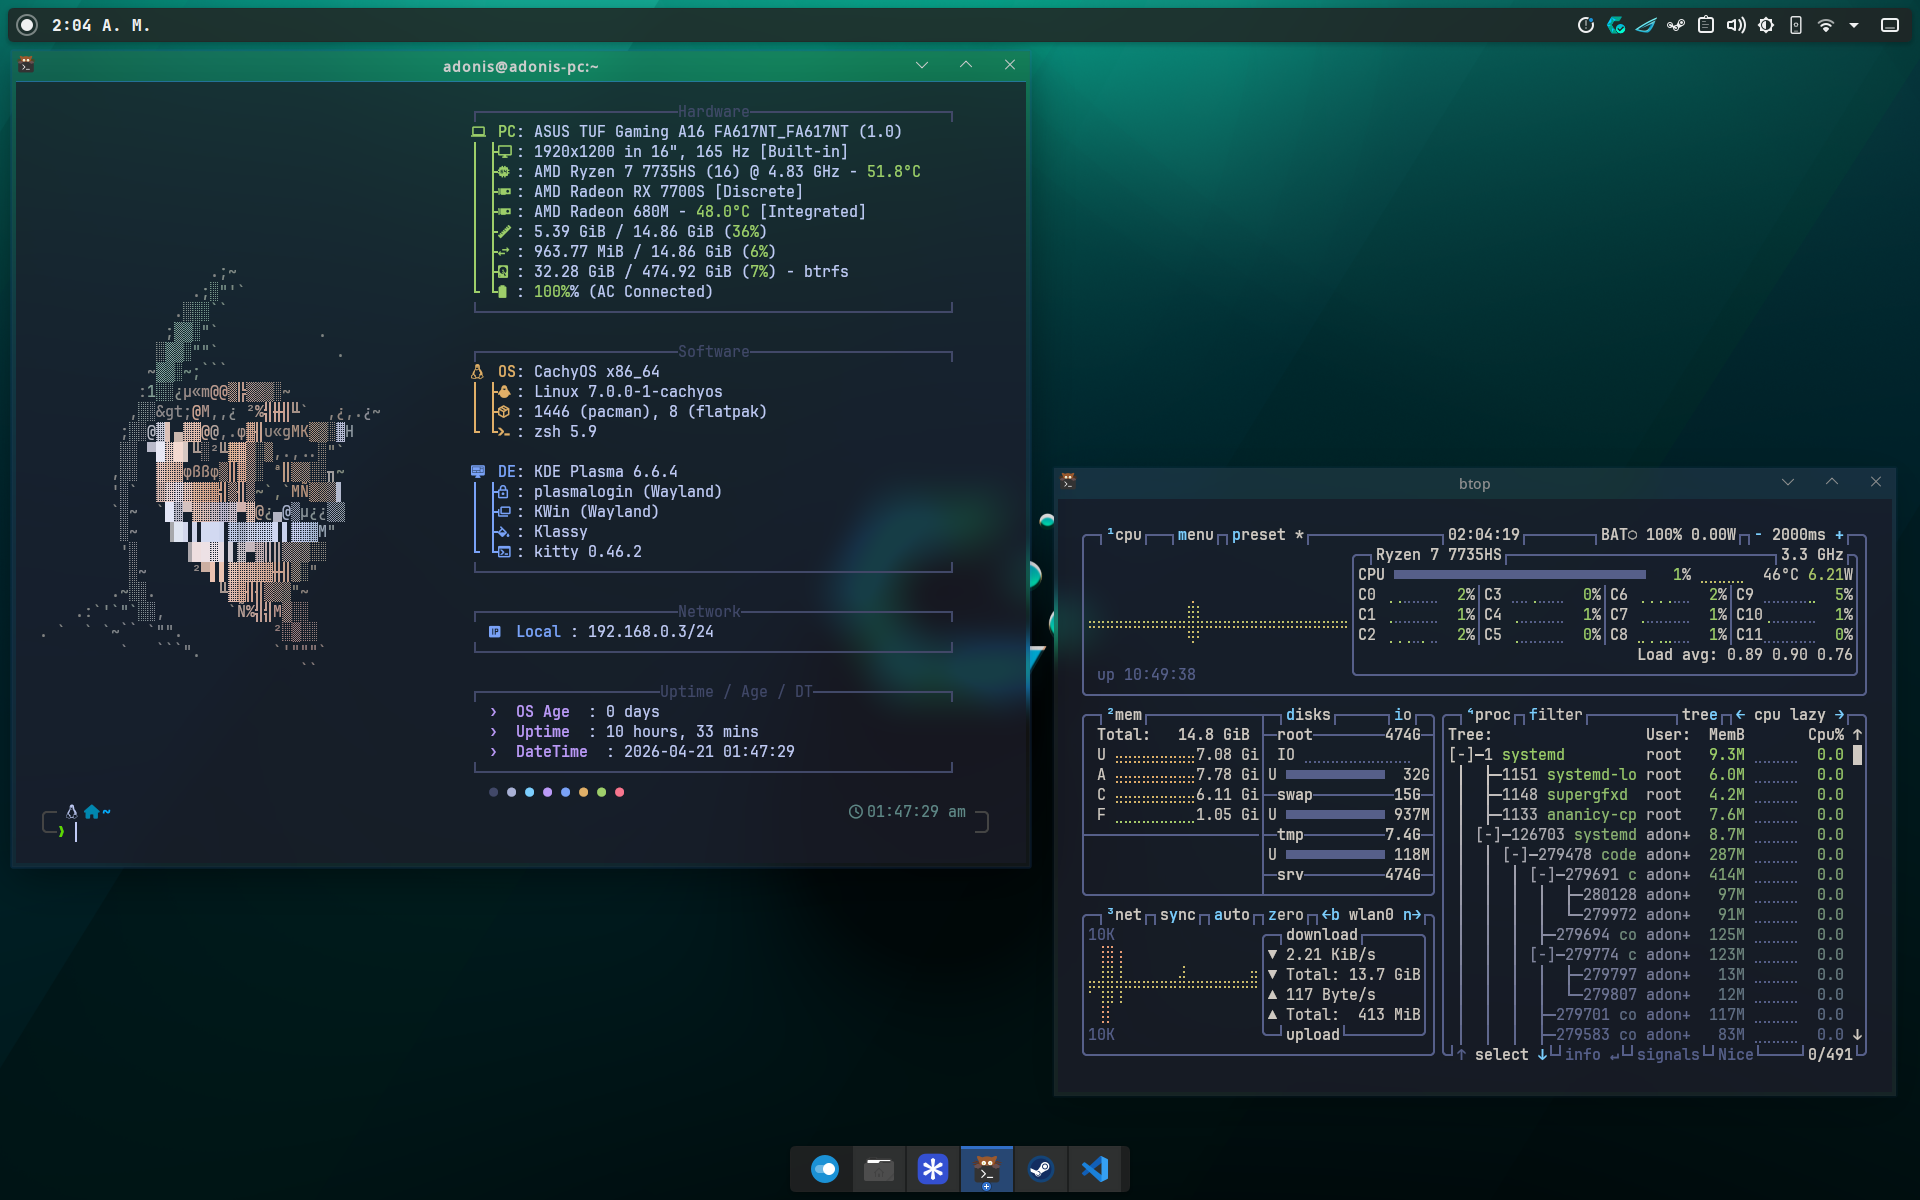
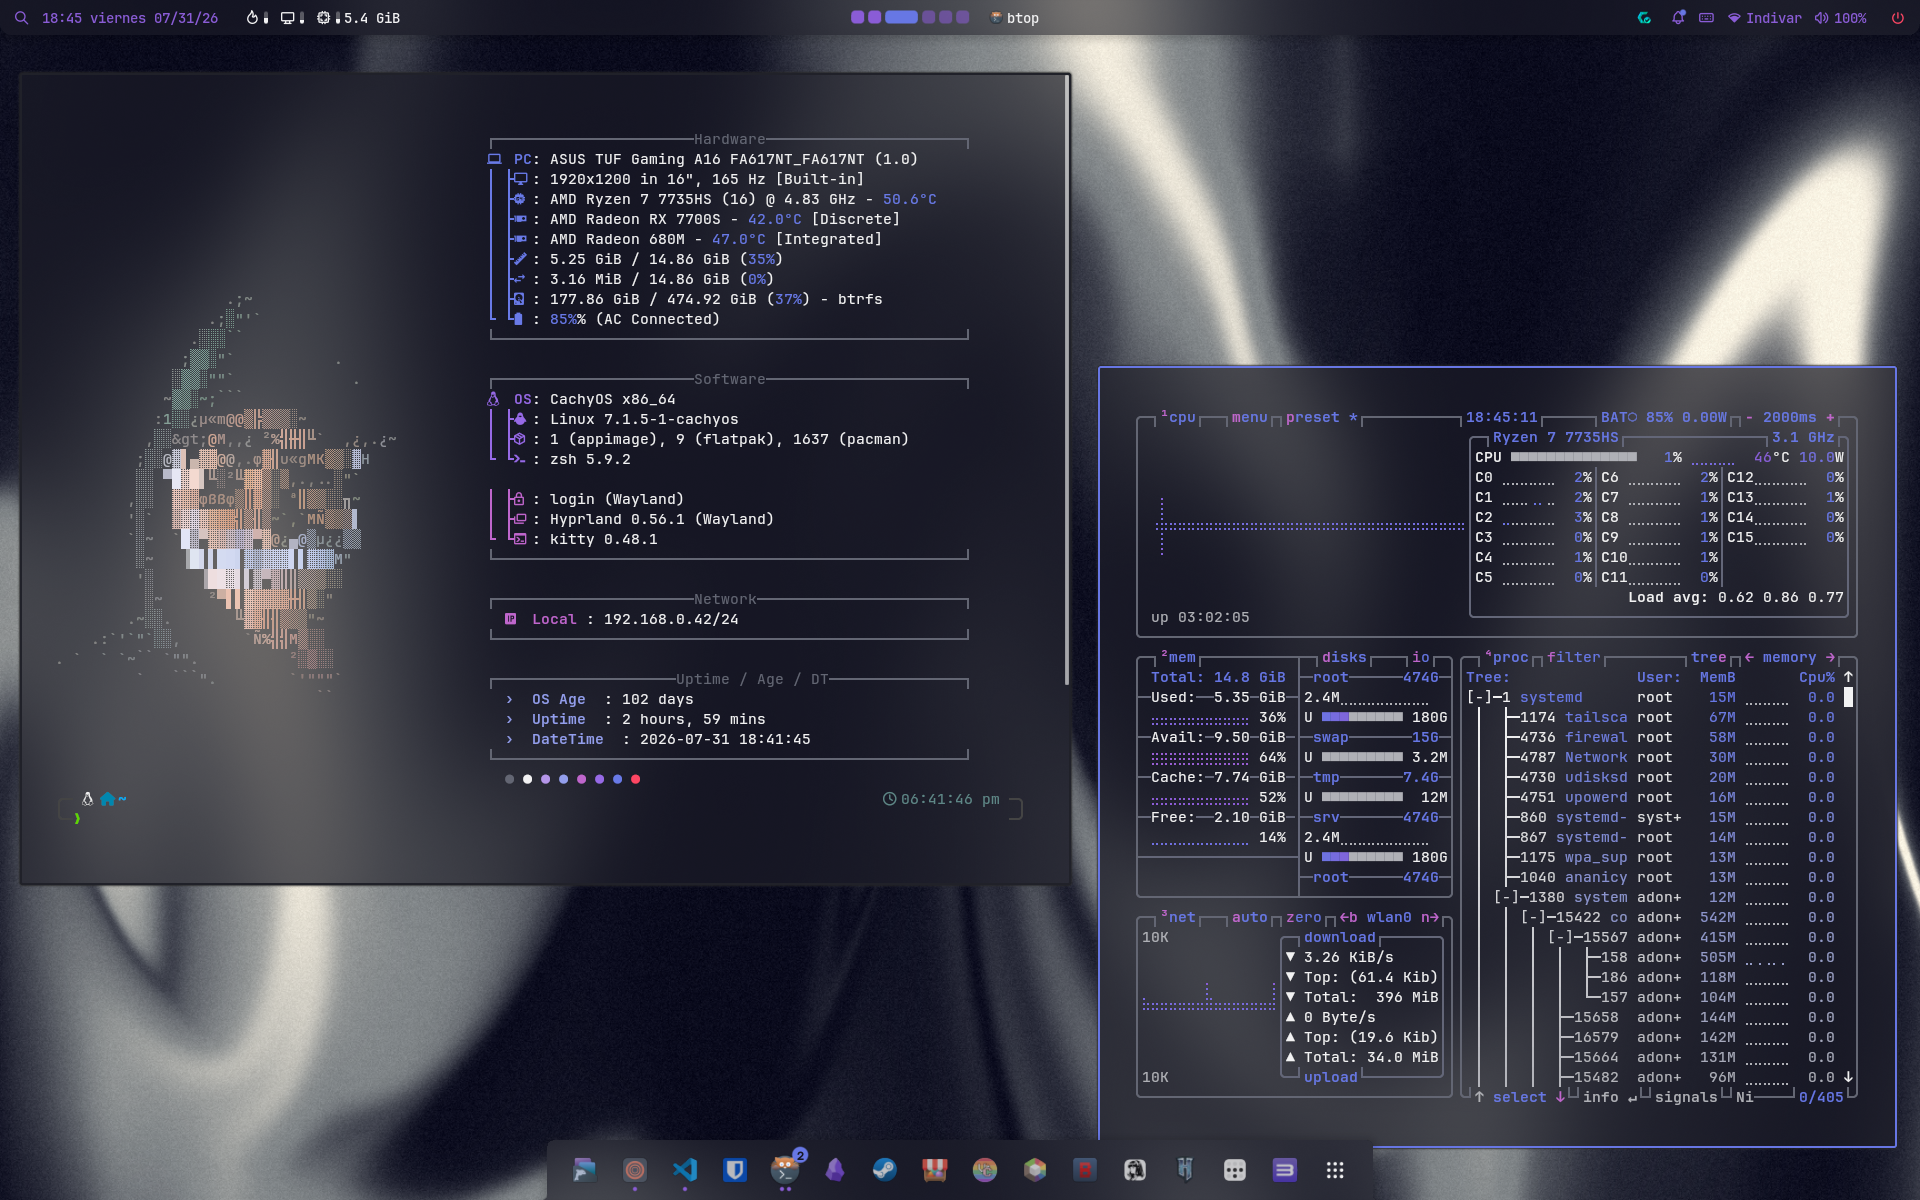
docs: update README and showcase image

diff --git a/README.md b/README.md
@@ -5,13 +5,93 @@ Personal repository for managing system configurations, automation scripts, and 
 ![Showcase](assets/showcase.png)
 
 ## Hardware: Asus TUF Gaming A16 Advantage Edition (FA617NT)
-Contains specific configurations to optimize performance and fix known bugs for this model:s
+
+Contains specific configurations to optimize performance and fix known bugs for this model:
+
 - **CPU:** AMD Ryzen 7 7735HS
-- **GPU:** AMD Radeon RX 7700S
+- **dGPU:** AMD Radeon RX 7700S
 - **Display:** 16" @ 165Hz
-- **OS:** CachyOS
-- **DE:** Plasma KDE 6 w/Wayland
+- **OS:** [CachyOS](https://github.com/CachyOS/linux-cachyos)
+- **WM + Shell:** [Hyprland](https://github.com/hyprwm/hyprland) + [Noctalia](https://github.com/noctalia-dev/noctalia)
 
-## Content
-- **Terminal:** `Zsh` + `Powerlevel10k` + `Kitty`.
+## Setup
 
+Clone and apply the dotfiles:
+
+```sh
+chezmoi init https://github.com/Aristides-19/dotfiles.git
+chezmoi apply
+```
+
+### One-time scripts (chezmoi `run_once`)
+
+These run automatically on the first `chezmoi apply` after being added/modified, or can be run manually from `scripts/`:
+
+| Script                                | Purpose                                                                                                      |
+| ------------------------------------- | ------------------------------------------------------------------------------------------------------------ |
+| `run_once_install.sh`                 | Installs all packages (official + AUR), sets Zsh as default shell, enables `asusd`/`supergfxd` (opinionated) |
+| `run_once_noctalia_setup.sh`          | Installs Hyprland + Noctalia + uwsm + XDG portals, deploys `/etc/skel` GTK/cursor configs, enables plugins   |
+| `run_once_wifi_fix.sh`                | Fixes Wi-Fi drops on Realtek RTL8852BE (disables power save in `rtw89` + NetworkManager)                     |
+| `run_once_autologin.sh.tmpl`          | Configures agetty autologin on TTY1 for direct boot into Hyprland                                            |
+| `run_onchange_setup_plymouth.sh.tmpl` | Deploys the `tuf-boot` Plymouth theme                                                                        |
+
+## Repository structure
+
+| Path                                                   | What it configures                                                           |
+| ------------------------------------------------------ | ---------------------------------------------------------------------------- |
+| `dot_config/hypr/`                                     | Hyprland (modular: binds, autostart, monitors, variables, windowrules...)    |
+| `dot_config/noctalia/`                                 | Noctalia shell: bar, dock, control center, theming, idle, session actions    |
+| `dot_config/uwsm/`                                     | uwsm session env (`AQ_DRM_DEVICES`, terminal, browser, Qt/GTK/Electron vars) |
+| `dot_config/kitty/`                                    | Terminal                                                                     |
+| `dot_config/gtk-3.0`, `gtk-4.0`, `qt6ct`, `xsettingsd` | Cross-toolkit theming                                                        |
+| `dot_config/btop/`, `dot_config/fastfetch/`            | System monitor + fetch                                                       |
+| `dot_config/systemd/user/`                             | User services (e.g. `fix-audio.service`)                                     |
+| `dot_local/share/scripts/`                             | Battery/AC hooks (60Hz ↔ 165Hz switching)                                    |
+
+## Keybindings
+
+Main mod is **SUPER**. Full list in `dot_config/hypr/config/binds.lua`.
+
+| Key                           | Action                                             |
+| ----------------------------- | -------------------------------------------------- |
+| `SUPER + Space`               | Launcher                                           |
+| `SUPER + Return`              | Terminal (kitty + zsh)                             |
+| `SUPER + W`                   | Browser (zen)                                      |
+| `SUPER + E`                   | File manager (dolphin)                             |
+| `SUPER + T`                   | Editor                                             |
+| `SUPER + Q`                   | Close window                                       |
+| `SUPER + D` / `SUPER + F`     | Maximize / Fullscreen                              |
+| `SUPER + ALT + Space`         | Toggle float                                       |
+| `SUPER + L`                   | Lock screen                                        |
+| `SUPER + P`                   | Color picker                                       |
+| `SUPER + SHIFT + S` / `Print` | Region / full screenshot                           |
+| `SUPER + V`                   | Clipboard manager                                  |
+| `SUPER + X`                   | Control center                                     |
+| `SUPER + 1..6`                | Switch workspace                                   |
+| `SUPER + SHIFT + 1..6`        | Move window to workspace                           |
+| `SUPER + CONTROL + arrows`    | Workspace / monitor navigation                     |
+| `Fn + F6`                     | Region screenshot (firmware → `SUPER + SHIFT + S`) |
+| Media/brightness keys         | Volume, mic, playback, brightness                  |
+
+## Hardware / GPU notes
+
+- `gpu_busy_percent` can report activity while nothing is using the GPU. To check if the dGPU is *really* busy, use `amdgpu_top` for per-process usage.
+
+## Dynamic theming
+
+Noctalia generates themes from the current wallpaper and applies them via templates (`dot_config/noctalia/templates/`).
+
+## Troubleshooting
+
+- **Wi-Fi drops:** `scripts/run_once_wifi_fix.sh`
+- **Audio levels reset on boot (ALC256):** `dot_config/systemd/user/fix-audio.service` runs `~/.local/bin/fix-audio` after PipeWire/WirePlumber start (user service).
+- **DRM card reordering:** the env resolves the GPU by PCI, so `cardN` changes are handled automatically.
+- **Restart Noctalia:** `SUPER + Escape` (or `killall noctalia; nohup noctalia -d &`).
+
+## Maintenance
+
+```sh
+chezmoi diff        # review changes
+chezmoi apply       # apply changes
+chezmoi cd          # enter the source directory
+```
